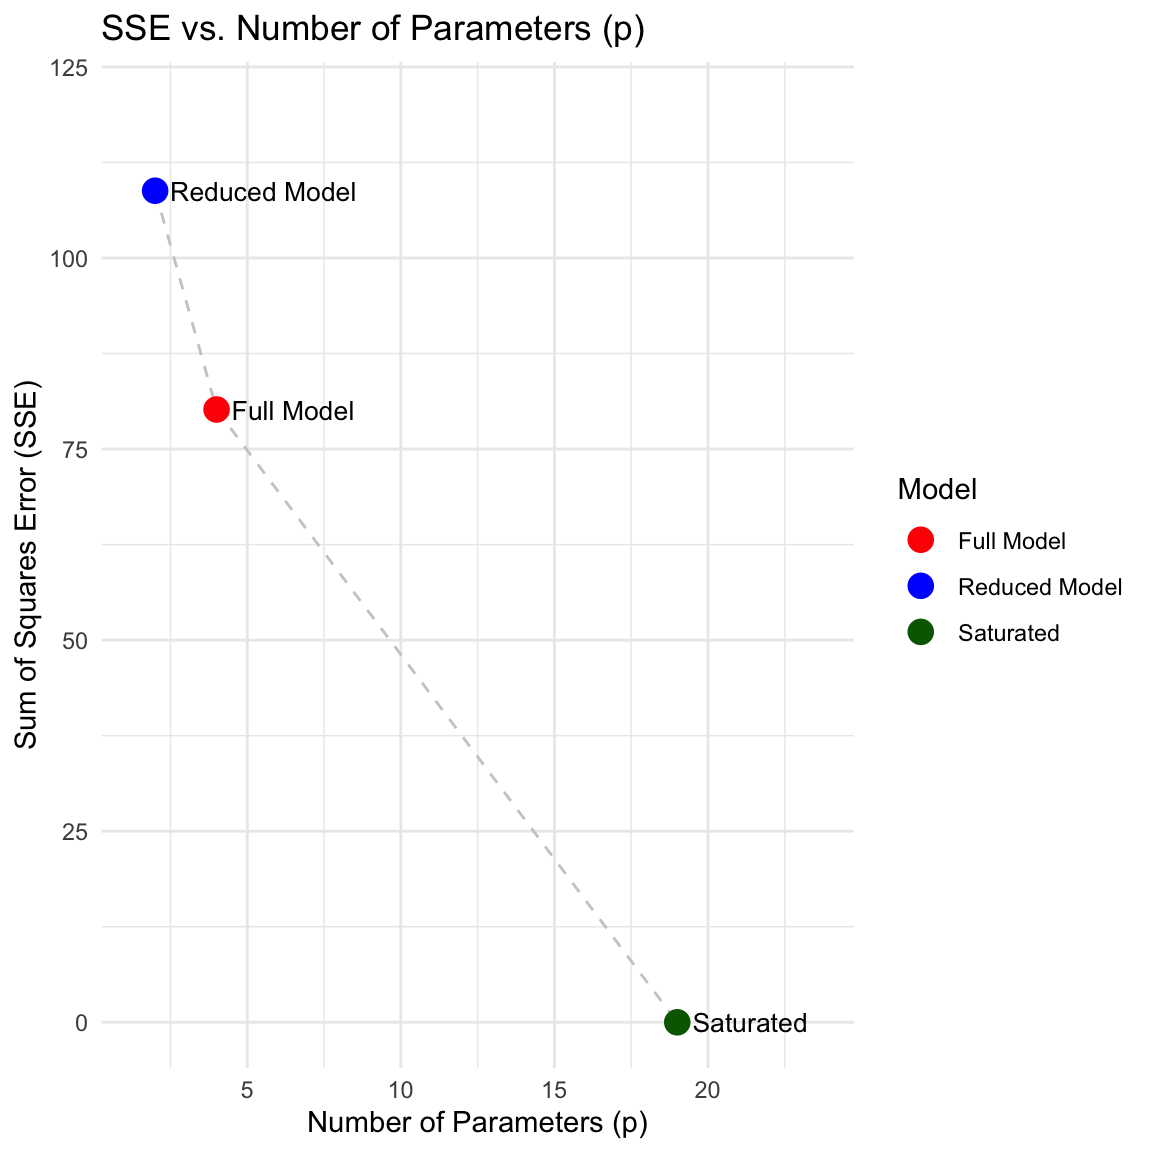
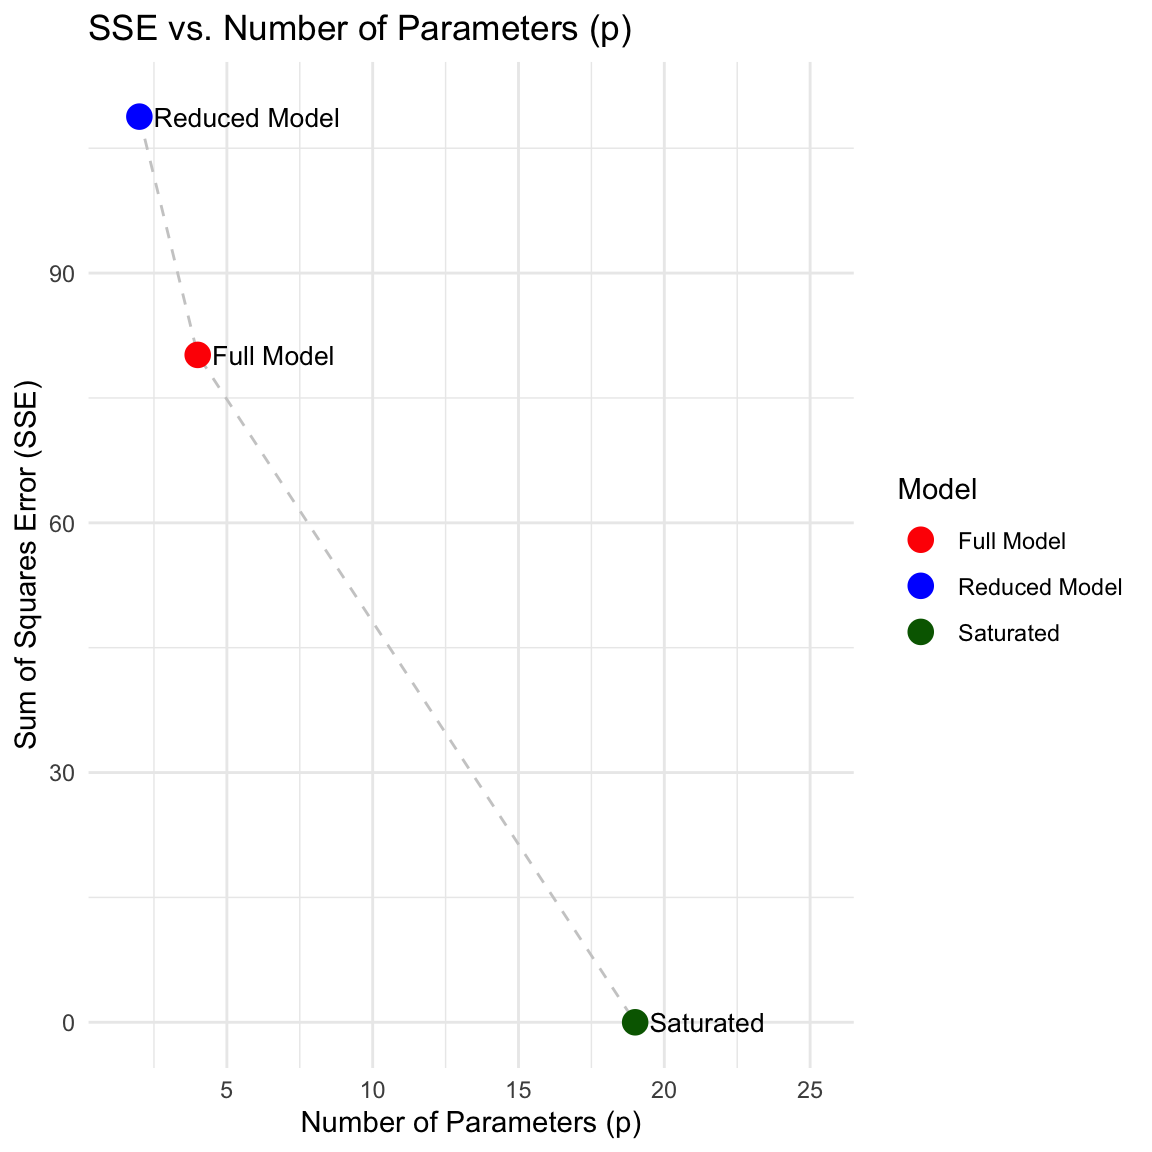
syn2GH from KNW5YYVTFD

diff --git a/teaching/stat851/theorylm/lec6-test.html b/teaching/stat851/theorylm/lec6-test.html
@@ -666,13 +666,6 @@ C(X^T X)^{-1} C^T = \begin{pmatrix} 0.003366 &amp; -0.006943 \\ -0.006943 &amp; 
 F = \frac{(C\hat{\beta})^T [C(X^T X)^{-1} C^T]^{-1} (C\hat{\beta}) / 2}{s^2} = \frac{28.62301 / 2}{5.3449} = 2.6776
 \]</span></p>
 <p>where <span class="math inline">\(s^2 = \text{MSE}_{\text{FM}} = 5.3449\)</span>. This statistic follows an <span class="math inline">\(F(2, 15)\)</span> distribution. The corresponding p-value is <span class="math inline">\(0.101\)</span>, suggesting that we fail to reject the null hypothesis at the <span class="math inline">\(\alpha = 0.05\)</span> level.</p>
-<p><strong>Alternative Approach (Full vs.&nbsp;Reduced Model):</strong> The null hypothesis implies relationships between the parameters that allow us to rewrite the model. If <span class="math inline">\(2\beta_1 = \beta_3\)</span> and <span class="math inline">\(2\beta_2 = \beta_3\)</span>, then <span class="math inline">\(\beta_1 = 0.5\beta_3\)</span> and <span class="math inline">\(\beta_2 = 0.5\beta_3\)</span>. Substituting these into the full model:</p>
-<p><span class="math display">\[
-y_1 = \beta_0 + 0.5\beta_3 x_1 + 0.5\beta_3 x_2 + \beta_3 x_3 + \epsilon
-\]</span> <span class="math display">\[
-y_1 = \beta_0 + \beta_3 (0.5 x_1 + 0.5 x_2 + x_3) + \epsilon
-\]</span></p>
-<p>This reduced model has only two parameters: an intercept <span class="math inline">\(\beta_0\)</span> and a slope <span class="math inline">\(\beta_3\)</span> for the constructed variable <span class="math inline">\(z = 0.5x_1 + 0.5x_2 + x_3\)</span>. We could then calculate <span class="math inline">\(F\)</span> using the difference in SSE between the full model and this reduced model .</p>
 <p><strong>Method 1: General Linear Hypothesis (Manual Matrix &amp; car Package)</strong></p>
 <p>This approach tests the hypothesis <span class="math inline">\(H_0: C\beta = 0\)</span>. We calculate the Sum of Squares for the Hypothesis (<span class="math inline">\(SSH\)</span>) using the general linear hypothesis formula and then structure the results into a standard ANOVA table format. <strong>Method 1: General Linear Hypothesis (Manual Matrix &amp; car Package)</strong></p>
 <p>This approach tests the hypothesis <span class="math inline">\(H_0: C\beta = 0\)</span>. We calculate the Sum of Squares for the Hypothesis (<span class="math inline">\(SSH\)</span>) using the general linear hypothesis formula and then structure the results into a standard ANOVA table format.</p>
@@ -756,7 +749,13 @@ Model 2: y1 ~ x1 + x2 + x3
 </div>
 <hr>
 <p><strong>Method 2: Nested Models Approach</strong></p>
-<p>In this method, we analyze the change in error when moving from the Full Model to a Reduced Model. The plot illustrates <span class="math inline">\(SSE\)</span> against the number of parameters <span class="math inline">\(p\)</span>. Labels are positioned to the right of each data point for clarity.</p>
+<p>The null hypothesis implies relationships between the parameters that allow us to rewrite the model. If <span class="math inline">\(2\beta_1 = \beta_3\)</span> and <span class="math inline">\(2\beta_2 = \beta_3\)</span>, then <span class="math inline">\(\beta_1 = 0.5\beta_3\)</span> and <span class="math inline">\(\beta_2 = 0.5\beta_3\)</span>. Substituting these into the full model:</p>
+<p><span class="math display">\[
+y_1 = \beta_0 + 0.5\beta_3 x_1 + 0.5\beta_3 x_2 + \beta_3 x_3 + \epsilon
+\]</span> <span class="math display">\[
+y_1 = \beta_0 + \beta_3 (0.5 x_1 + 0.5 x_2 + x_3) + \epsilon
+\]</span></p>
+<p>This reduced model has only two parameters: an intercept <span class="math inline">\(\beta_0\)</span> and a slope <span class="math inline">\(\beta_3\)</span> for the constructed variable <span class="math inline">\(z = 0.5x_1 + 0.5x_2 + x_3\)</span>. We could then calculate <span class="math inline">\(F\)</span> using the difference in SSE between the full model and this reduced model. We analyze the change in error when moving from the Full Model to a Reduced Model. The plot illustrates <span class="math inline">\(SSE\)</span> against the number of parameters <span class="math inline">\(p\)</span>. Labels are positioned to the right of each data point for clarity.</p>
 <div class="cell">
 <details class="code-fold">
 <summary>Code</summary>
@@ -795,8 +794,8 @@ Model 2: y1 ~ x1 + x2 + x3
 <span id="cb5-33"><a href="#cb5-33" aria-hidden="true" tabindex="-1"></a>                                <span class="st">"Reduced Model"</span> <span class="ot">=</span> <span class="st">"blue"</span>, </span>
 <span id="cb5-34"><a href="#cb5-34" aria-hidden="true" tabindex="-1"></a>                                <span class="st">"Saturated"</span> <span class="ot">=</span> <span class="st">"darkgreen"</span>)) <span class="sc">+</span></span>
 <span id="cb5-35"><a href="#cb5-35" aria-hidden="true" tabindex="-1"></a>  <span class="co"># Expand x-axis slightly to make room for text on the right</span></span>
-<span id="cb5-36"><a href="#cb5-36" aria-hidden="true" tabindex="-1"></a>  <span class="fu">scale_x_continuous</span>(<span class="at">expand =</span> <span class="fu">expansion</span>(<span class="at">mult =</span> <span class="fu">c</span>(<span class="fl">0.1</span>, <span class="fl">0.3</span>))) <span class="sc">+</span></span>
-<span id="cb5-37"><a href="#cb5-37" aria-hidden="true" tabindex="-1"></a>  <span class="fu">ylim</span>(<span class="dv">0</span>, <span class="fu">max</span>(viz_data<span class="sc">$</span>sse) <span class="sc">*</span> <span class="fl">1.1</span>)</span></code><button title="Copy to Clipboard" class="code-copy-button"><i class="bi"></i></button></pre></div>
+<span id="cb5-36"><a href="#cb5-36" aria-hidden="true" tabindex="-1"></a>  <span class="fu">scale_x_continuous</span>(<span class="at">expand =</span> <span class="fu">expansion</span>(<span class="at">mult =</span> <span class="fu">c</span>(<span class="fl">0.1</span>, <span class="fl">0.4</span>))) <span class="sc">+</span></span>
+<span id="cb5-37"><a href="#cb5-37" aria-hidden="true" tabindex="-1"></a>  <span class="fu">ylim</span>(<span class="dv">0</span>, <span class="fu">max</span>(viz_data<span class="sc">$</span>sse) <span class="sc">*</span> <span class="fl">1.01</span>)</span></code><button title="Copy to Clipboard" class="code-copy-button"><i class="bi"></i></button></pre></div>
 </details>
 <div class="cell-output-display">
 <div>
